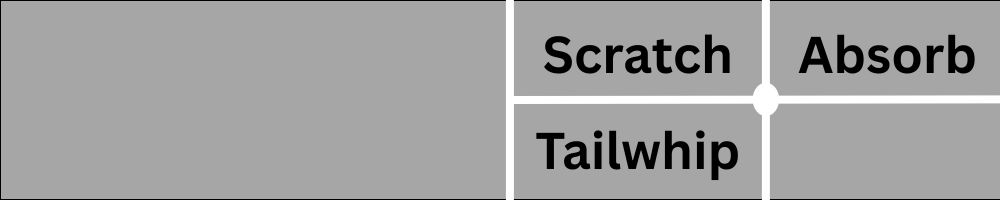
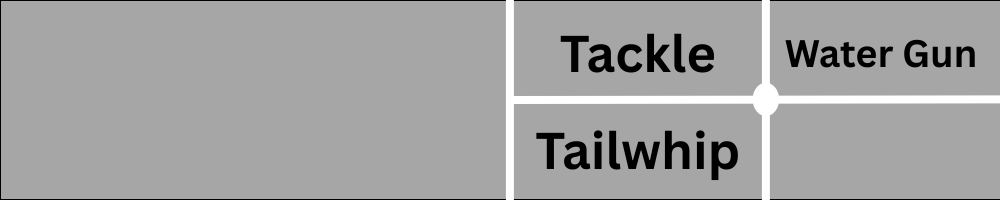
Battle system overhaul

Changed region(s): [[0.527, 0.15, 0.744, 0.39], [0.775, 0.18, 0.992, 0.39]]

diff --git a/main.py b/main.py
@@ -1,9 +1,10 @@
 import random
-from ctypes.macholib.dyld import dyld_executable_path_search
-
+from bdb import effective
+from tkinter.constants import NORMAL
 import pygame
 import time
 global state, pokemon, yourpokemon, battlestate, attackmsg, yourHealth, Defence, ui_img, rival_img, player_img, background_img, Dex
+global playermove, Type, rivalType
 pygame.init()
 # Set the base of each variable
 state = 1  # 1 - Selection / 2 - Battle / 3 - Won / 4 - Loss
@@ -16,12 +17,60 @@ opponentDefence = 1
 battlestate = 1
 attackmsg = "na"
 
-def Attack(Damage):
-    min = Damage - 1
-    max = Damage + 1
-    Damage = random.randint(min,max)
+#Attack Damage
+def Attack():
+    Damage = random.randint(4,6)
     return Damage
 
+# Effictiveness Checker
+def Typedex(movetype,oppenenttype):
+    Weakwater = ["Water", "Grass","Dragon"]
+    Strongwater = ["Fire", "Rock", "Ground"]
+    Weakfire = ["Fire", "Water","Rock", "Dragon"]
+    Strongfire = ["Grass", "Ice", "Bug", "Steel"]
+    Weakgrass = ["Fire", "Grass", "Dragon"]
+    Stronggrass = ["Water", "Ground", "Rock"]
+
+    #Weak = ["", "", "", ""]
+    #Strong = ["", "", "", ""]
+    Effectiveness = 1
+    if movetype == "Water":
+        if oppenenttype in Weakwater:
+            Effectiveness = 0.5
+        if oppenenttype in Strongwater:
+            Effectiveness = 2
+    if movetype == "Fire":
+        if oppenenttype in Weakfire:
+            Effectiveness = 0.5
+        if oppenenttype in Strongfire:
+            Effectiveness = 2
+    if movetype == "Grass":
+        if oppenenttype in Weakgrass:
+            Effectiveness = 0.5
+        if oppenenttype in Stronggrass:
+            Effectiveness = 2
+    return Effectiveness
+
+def PokemonSelction(Pokemon):
+    Dex = ["Treeko", "Oshawott", "Litten"]
+    Selctedpokemon = Dex[Pokemon]
+    return Selctedpokemon
+
+def PokemonType(Pokemon):
+    Types = ["Grass","Water","Fire"]
+    Type = Types[Pokemon]
+    return Type
+
+def Movetype(move,Usertype):
+    a = 0
+    if move == 0:
+        Type = 'Normal'
+        a = 1
+    if move == 1:
+        Type = Usertype
+        a = 1
+    if a == 1:
+        return Type
 
 pygame.init()
 screen = pygame.display.set_mode((1000, 700))
@@ -77,30 +126,32 @@ while running:
     current_time = pygame.time.get_ticks()
     for event in pygame.event.get():
         if event.type == pygame.KEYDOWN:
+
             # starter selection
             if state == 1:
-                if event.key == pygame.K_4:
-                    yourpokemon = "Treeko"
+                pokemon = -1
+                if event.key == pygame.K_q:
+                    pokemon = 0
+                    print ("1")
+                if event.key == pygame.K_w:
                     pokemon = 1  # toggle
-                    opponentpokemon = "Litten"
-                    state = 2
-                    print("P1")
-                    pygame.mixer.music.play(loops=10)
-
-                if event.key == pygame.K_5:
-                    yourpokemon = "Oshawott"
+                    print ("2")
+                if event.key == pygame.K_e:
                     pokemon = 2  # toggle
-                    opponentpokemon = "Treeko"
-                    state = 2
-                    print("P2")
-                    pygame.mixer.music.play(loops=10)
+                    print ("3")
 
-                if event.key == pygame.K_6:
-                    yourpokemon = "Litten"
-                    pokemon = 3  # toggle
-                    opponentpokemon = "Oshawott"
+                if pokemon >= 0:
+                    print ("Checking")
+                    yourpokemon = PokemonSelction(pokemon)
+                    Type = PokemonType(pokemon)
+                    #Auto Rival Pokemon Selector
+                    rivalnumber = random.randint(0,2)
+                    opponentpokemon = PokemonSelction(rivalnumber)
+                    rivalType = PokemonType(rivalnumber)
+
+
+                    print (yourpokemon + " : " + Type)
                     state = 2
-                    print("P3")
                     pygame.mixer.music.play(loops=10)
 
             # Move Selection
@@ -108,31 +159,45 @@ while running:
                 if battlestate == 1 and current_time > display_until:
                     print("Loaded State 2")
                     moveused = 0
-                    Base = 5 # Base Damage
-
+                    damage = Attack()
                     if event.key == pygame.K_1:
+                        damage = Attack()
                         playermove = 0
-                        damage = Attack(Base)
-                        opponentHealth = opponentHealth - damage  * opponentDefence
                         moveused = 1
+
                     if event.key == pygame.K_2:
+                        damage = Attack()
                         playermove = 1
-                        damage = Attack(Base)
-                        opponentHealth = opponentHealth - damage * opponentDefence / 2
                         moveused = 1
+
 
                     if event.key == pygame.K_3:
+                        AttackType = "NA"
+                        damage = 0
                         playermove = 2
                         opponentDefence = opponentDefence + 0.3
                         moveused = 1
 
+                    #After move selected
                     if moveused == 1:
+                        print("Moveused?")
+                        if playermove != 2:
+                            AttackType = Movetype(playermove, Type)
+                            print(rivalType)
+                            effectiveness = Typedex(AttackType,rivalType)
+                            print(effectiveness)
+                            opponentHealth = opponentHealth - damage * opponentDefence * effectiveness
+                        else :
+                            Attacktype = "NA"
+                            print('Lower Defence')
                         move = (Dex)[yourpokemon][playermove]
+                        print("Player:" + move + " : " + str(AttackType) + ' : ' + str(opponentHealth) + " : " + str(effectiveness) )
                         attackmsg = (yourpokemon + " used " + move)
                         moveused = 0
                         battlestate = 2
                         ui_img = pygame.image.load("Textbox.png").convert_alpha()
                         display_until = current_time + 1500
+                        print("skip")
         # Quit once win/lose
         if state >= 3:
             if event.key == pygame.K_SPACE:
@@ -140,32 +205,31 @@ while running:
     if state == 2:
         # Ai Attack
         if battlestate == 2 and current_time > display_until:
-            Ai_move = (random.randint(1, 3))
+            Ai_move = (random.randint(0, 2))
             print(Ai_move)
-            Base = 5
-            if Ai_move == 1:
-                damage = Attack(Base)
-                yourHealth = yourHealth - damage * Defence
-                print("aimoveused")
+            damage = Attack()
 
+            if Ai_move == 0 or 1:
+                moveused = 1
 
             if Ai_move == 2:
-                damage = Attack(Base)
-                yourHealth = yourHealth - damage * Defence * 2
-                print("aimoveused")
-
-
-            if Ai_move == 3:
+                AttackType = "NA"
+                damage = 0
                 Defence = Defence + 0.3
                 moveused = 1
-                print("aimoveused")
 
             if moveused == 1:
-                move = (Dex)[yourpokemon][playermove]
-                attackmsg = (opponentpokemon + " used " + move)
-                display_until = current_time + 1500
-                battlestate = 3
-                moveused = 0
+                    print("aimoveused")
+                    if Ai_move != 2:
+                        AttackType = Movetype(Ai_move, rivalType)
+                        effectiveness = Typedex(AttackType,Type)
+                        yourHealth = yourHealth - damage * Defence * effectiveness
+                    move2 = (Dex)[opponentpokemon][Ai_move]
+                    print(move2 + " : " + str(AttackType) + ' : ' +  str(yourHealth) +  " : " + str(effectiveness))
+                    attackmsg = (opponentpokemon + " used " + move2)
+                    display_until = current_time + 1500
+                    battlestate = 3
+                    moveused = 0
         #Disable Textbox
         if battlestate == 3 and current_time > display_until:
             battlestate = 1
